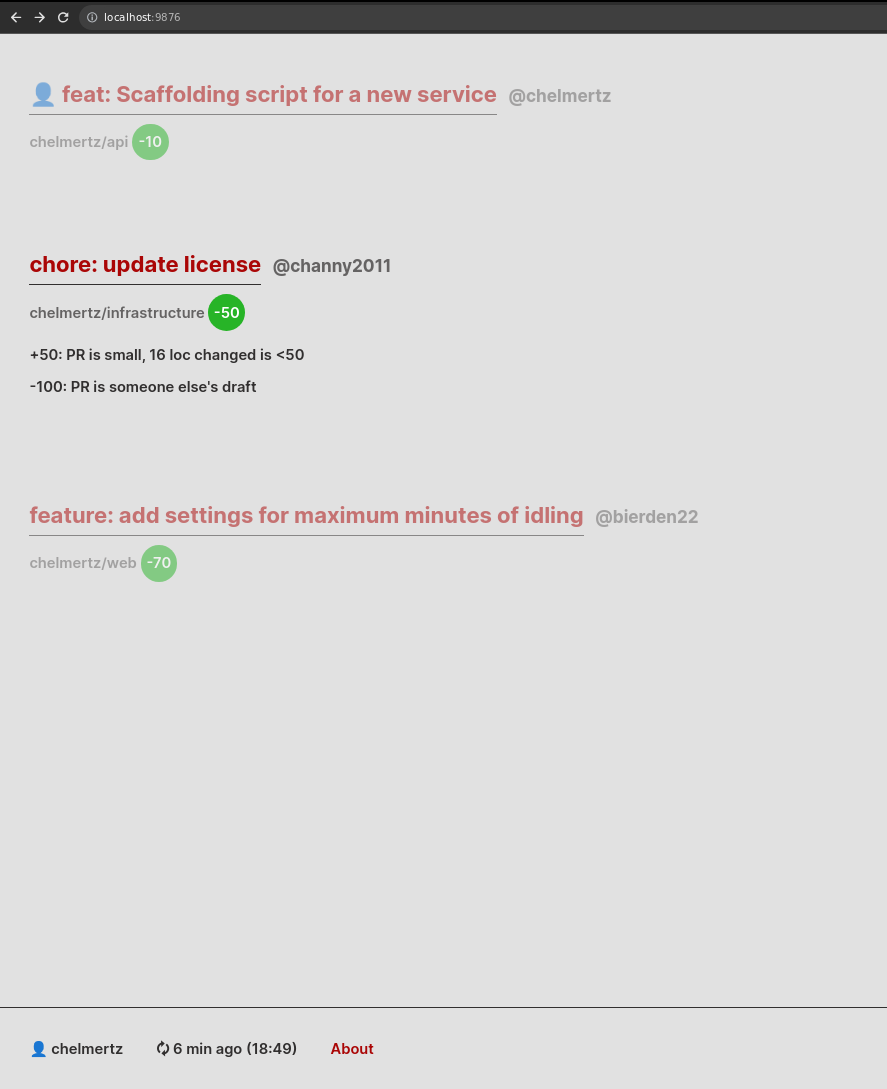
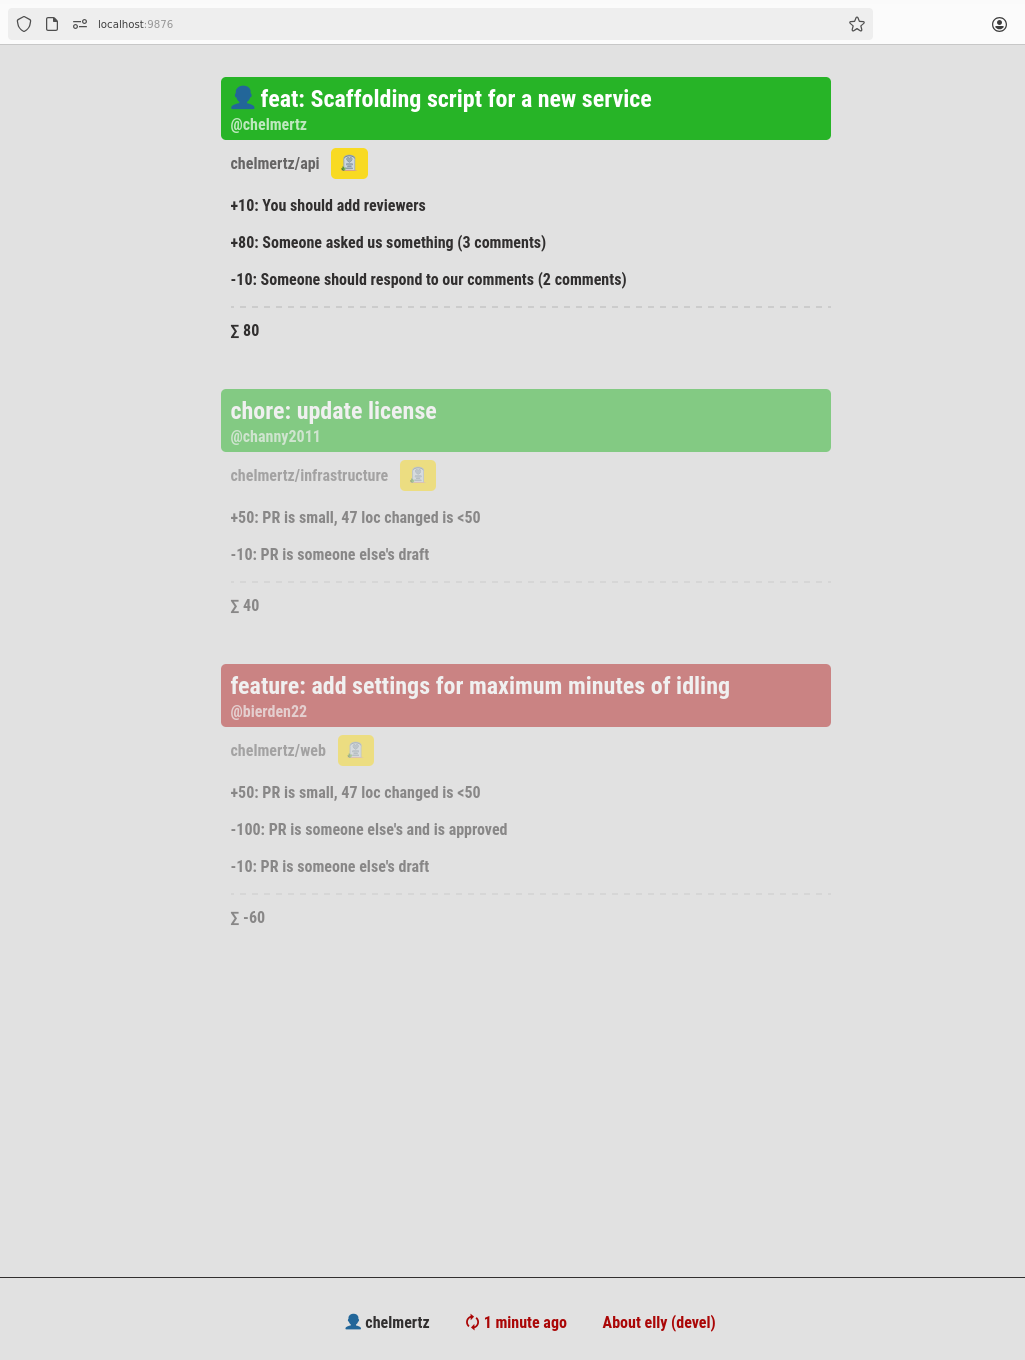
feat: Introduce demo mode, suitable for screenshot
Let's also update the screenshot, to include today's changes.

The mocked storage was conceived because of the auto update GUI. At
least it works, but it was a pain to discover after carefully trying to
mock the data with Firefox' dev tools.

diff --git a/internal/storage/storage_demo.go b/internal/storage/storage_demo.go
@@ -1,0 +1,104 @@
+package storage
+
+import (
+	_ "embed"
+	"time"
+
+	"github.com/chelmertz/elly/internal/types"
+	_ "github.com/mattn/go-sqlite3"
+)
+
+type StorageDemo struct{}
+
+var _ Storage = (*StorageDemo)(nil)
+
+func NewStorageDemo() *StorageDemo {
+	return &StorageDemo{}
+}
+
+func (s *StorageDemo) Prs() StoredState {
+	prs := make([]types.ViewPr, 0)
+	lastUpdated := time.Now().UTC()
+
+	pr1 := types.ViewPr{
+		Url:                      "1", // points is calculated based on PR URL, must be unique
+		ReviewStatus:             "",
+		Title:                    "feat: Scaffolding script for a new service",
+		Author:                   "chelmertz",
+		RepoName:                 "api",
+		RepoOwner:                "chelmertz",
+		RepoUrl:                  "",
+		IsDraft:                  false,
+		LastUpdated:              lastUpdated,
+		LastPrCommenter:          "",
+		ThreadsActionable:        3,
+		ThreadsWaiting:           2,
+		Additions:                32,
+		Deletions:                15,
+		ReviewRequestedFromUsers: []string{},
+		Buried:                   false,
+	}
+
+	pr2 := types.ViewPr{
+		Url:                      "2",
+		ReviewStatus:             "",
+		Title:                    "chore: update license",
+		Author:                   "channy2011",
+		RepoName:                 "infrastructure",
+		RepoOwner:                "chelmertz",
+		RepoUrl:                  "",
+		IsDraft:                  true,
+		LastUpdated:              lastUpdated,
+		LastPrCommenter:          "",
+		ThreadsActionable:        0,
+		ThreadsWaiting:           0,
+		Additions:                32,
+		Deletions:                15,
+		ReviewRequestedFromUsers: []string{},
+		Buried:                   false,
+	}
+
+	pr3 := types.ViewPr{
+		Url:                      "3",
+		ReviewStatus:             "APPROVED",
+		Title:                    "feature: add settings for maximum minutes of idling",
+		Author:                   "bierden22",
+		RepoName:                 "web",
+		RepoOwner:                "chelmertz",
+		RepoUrl:                  "",
+		IsDraft:                  true,
+		LastUpdated:              lastUpdated,
+		LastPrCommenter:          "",
+		ThreadsActionable:        0,
+		ThreadsWaiting:           0,
+		Additions:                32,
+		Deletions:                15,
+		ReviewRequestedFromUsers: []string{},
+		Buried:                   false,
+	}
+
+	prs = append(prs, pr1, pr2, pr3)
+
+	state := StoredState{
+		Prs:         prs,
+		LastFetched: time.Now().UTC(),
+	}
+
+	return state
+}
+
+func (s *StorageDemo) StoreRepoPrs(orderedPrs []types.ViewPr) error {
+	return nil
+}
+
+func (s *StorageDemo) Bury(prUrl string) error {
+	return nil
+}
+
+func (s *StorageDemo) Unbury(prUrl string) error {
+	return nil
+}
+
+func (s *StorageDemo) GetPr(prUrl string) (Pr, error) {
+	return Pr{}, nil
+}

diff --git a/internal/storage/storage.go b/internal/storage/storage.go
@@ -22,10 +22,20 @@ func check(err error) {
 	}
 }
 
-type Storage struct {
+type Storage interface {
+	Prs() StoredState
+	StoreRepoPrs(orderedPrs []types.ViewPr) error
+	Bury(prUrl string) error
+	Unbury(prUrl string) error
+	GetPr(prUrl string) (Pr, error)
+}
+
+type DbStorage struct {
 	db     *Queries
 	logger *slog.Logger
 }
+
+var _ Storage = (*DbStorage)(nil)
 
 type StoredState struct {
 	Prs         []types.ViewPr
@@ -35,7 +45,7 @@ type StoredState struct {
 //go:embed schema.sql
 var ddl string
 
-func NewStorage(logger *slog.Logger) *Storage {
+func NewStorage(logger *slog.Logger) *DbStorage {
 	dirname, err := os.UserCacheDir()
 	check(err)
 	ourCacheDir := filepath.Join(dirname, "elly")
@@ -56,13 +66,13 @@ func NewStorage(logger *slog.Logger) *Storage {
 		check(err)
 	}
 
-	return &Storage{
+	return &DbStorage{
 		db:     New(db),
 		logger: logger,
 	}
 }
 
-func (s *Storage) Prs() StoredState {
+func (s *DbStorage) Prs() StoredState {
 	dbPrs, err := s.db.ListPrs(context.Background())
 	check(err)
 	prs := make([]types.ViewPr, 0)
@@ -101,7 +111,7 @@ func (s *Storage) Prs() StoredState {
 	return state
 }
 
-func (s *Storage) StoreRepoPrs(orderedPrs []types.ViewPr) error {
+func (s *DbStorage) StoreRepoPrs(orderedPrs []types.ViewPr) error {
 	s.logger.Info("storing prs", slog.Int("prs", len(orderedPrs)))
 
 	buriedPrs, err := s.db.BuriedPrs(context.Background())
@@ -154,14 +164,14 @@ func (s *Storage) StoreRepoPrs(orderedPrs []types.ViewPr) error {
 	return nil
 }
 
-func (s *Storage) Bury(prUrl string) error {
+func (s *DbStorage) Bury(prUrl string) error {
 	return s.db.Bury(context.Background(), prUrl)
 }
 
-func (s *Storage) Unbury(prUrl string) error {
+func (s *DbStorage) Unbury(prUrl string) error {
 	return s.db.Unbury(context.Background(), prUrl)
 }
 
-func (s *Storage) GetPr(prUrl string) (Pr, error) {
+func (s *DbStorage) GetPr(prUrl string) (Pr, error) {
 	return s.db.GetPr(context.Background(), prUrl)
 }

diff --git a/main.go b/main.go
@@ -19,6 +19,7 @@ import (
 var timeoutMinutes = flag.Int("timeout", 5, "refresh PRs every N minutes")
 var url = flag.String("url", "localhost:9876", "URL for web GUI")
 var golden = flag.Bool("golden", false, "provide a button for turning a PR into a test. do NOT use outside of development")
+var demo = flag.Bool("demo", false, "mock the PRs so you can take a proper screenshot of the GUI")
 var versionFlag = flag.Bool("version", false, "show version")
 var logger = slog.New(slog.NewTextHandler(os.Stdout, nil))
 
@@ -46,14 +47,18 @@ func main() {
 	}
 	os.Unsetenv("GITHUB_PAT")
 
-	store := storage.NewStorage(logger)
+	var store storage.Storage = storage.NewStorage(logger)
 	username, err := github.UsernameFromPat(token, logger)
 	if err != nil {
 		logger.Error("could not get username from PAT", "error", err)
 		os.Exit(1)
 	}
 
-	logger.Info("starting elly", "version", version, "timeout_minutes", *timeoutMinutes, "github_user", username, "golden_testing_enabled", *golden)
+	logger.Info("starting elly", "version", version, "timeout_minutes", *timeoutMinutes, "github_user", username, "golden_testing_enabled", *golden, "demo", *demo)
+
+	if *demo {
+		store = storage.NewStorageDemo()
+	}
 
 	refreshChannel := make(chan types.RefreshAction, 1)
 	go startRefreshLoop(token, username, store, refreshChannel)
@@ -61,7 +66,7 @@ func main() {
 	server.ServeWeb(*url, username, *golden, store, refreshChannel, *timeoutMinutes, version, logger)
 }
 
-func startRefreshLoop(token, username string, store *storage.Storage, refresh chan types.RefreshAction) {
+func startRefreshLoop(token, username string, store storage.Storage, refresh chan types.RefreshAction) {
 	refreshTimer := time.NewTicker(time.Duration(*timeoutMinutes) * time.Minute)
 	retriesLeft := 5
 

diff --git a/internal/server/server.go b/internal/server/server.go
@@ -36,7 +36,7 @@ type IndexHtmlData struct {
 //go:embed index.html
 var index embed.FS
 
-func ServeWeb(url, username string, goldenTestingEnabled bool, store *storage.Storage, refreshingChannel chan types.RefreshAction, timeoutMinutes int, version string, logger *slog.Logger) {
+func ServeWeb(url, username string, goldenTestingEnabled bool, store storage.Storage, refreshingChannel chan types.RefreshAction, timeoutMinutes int, version string, logger *slog.Logger) {
 	temp, err := template.ParseFS(index, "index.html")
 	check(err)
 
